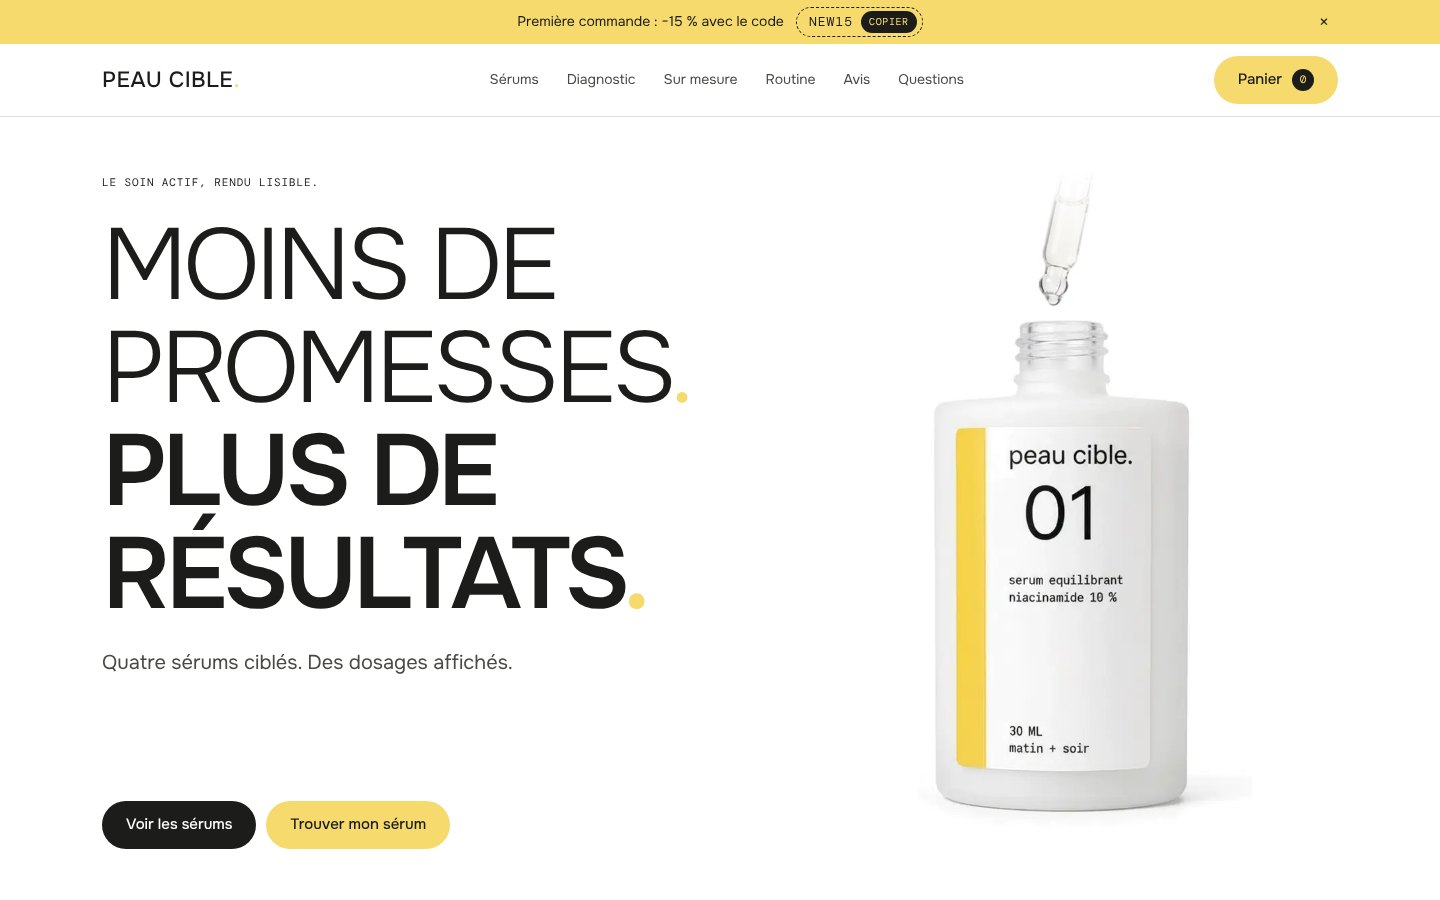
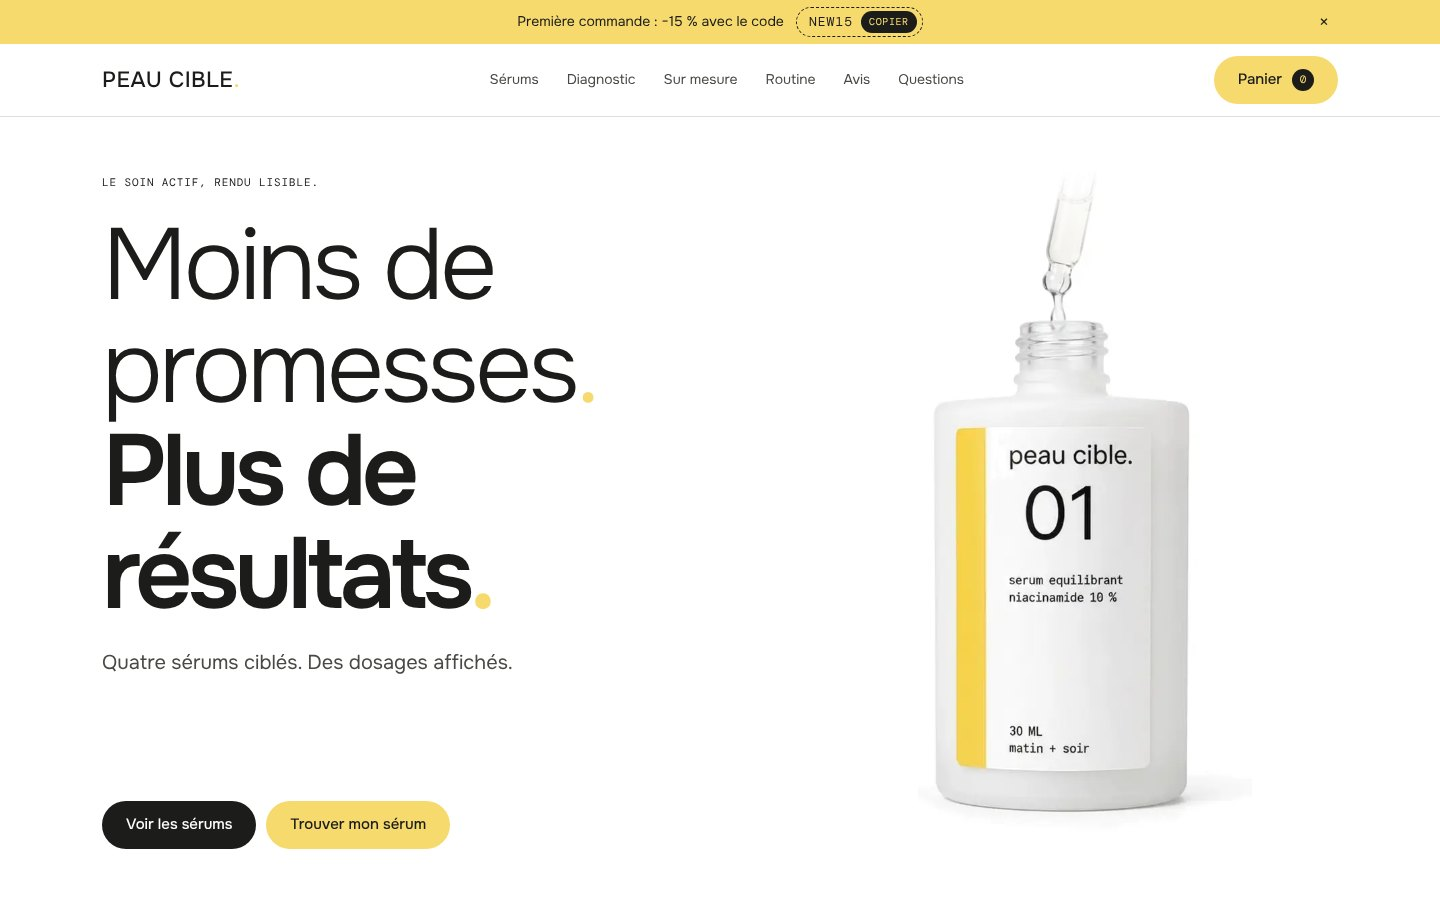
Peau Cible : titres en casse de phrase (plus de capitales)
Claude-Session: https://claude.ai/code/session_01FzwBmncj8JGb2dSua4z4Jr

Changed region(s): [[0.0625, 0.2489, 0.4688, 0.6844], [0.7188, 0.2489, 0.75, 0.3422]]

diff --git a/peau-cible/index.html b/peau-cible/index.html
@@ -42,7 +42,7 @@ button{font:inherit;color:inherit;cursor:pointer}
 .tag{display:inline-flex;align-items:center;font-family:var(--f-mono);font-size:10px;font-weight:500;letter-spacing:.08em;text-transform:uppercase;background:var(--sun);color:var(--carbon);border-radius:999px;padding:5px 11px;white-space:nowrap}
 .tag.dark{background:var(--carbon);color:var(--sun)}
 h1,h2,h3{font-weight:500;margin:0;text-wrap:balance}
-.big{font-size:clamp(42px,8vw,118px);line-height:.88;letter-spacing:-.045em;text-transform:uppercase;font-weight:300}
+.big{font-size:clamp(42px,8vw,118px);line-height:.96;letter-spacing:-.04em;font-weight:300}
 .big .off{display:block}
 .hl{position:relative;z-index:0;white-space:nowrap}
 .hl::after{content:"";position:absolute;z-index:-1;left:-.08em;right:-.12em;bottom:.02em;height:.46em;background:var(--sun);border-radius:999px}
